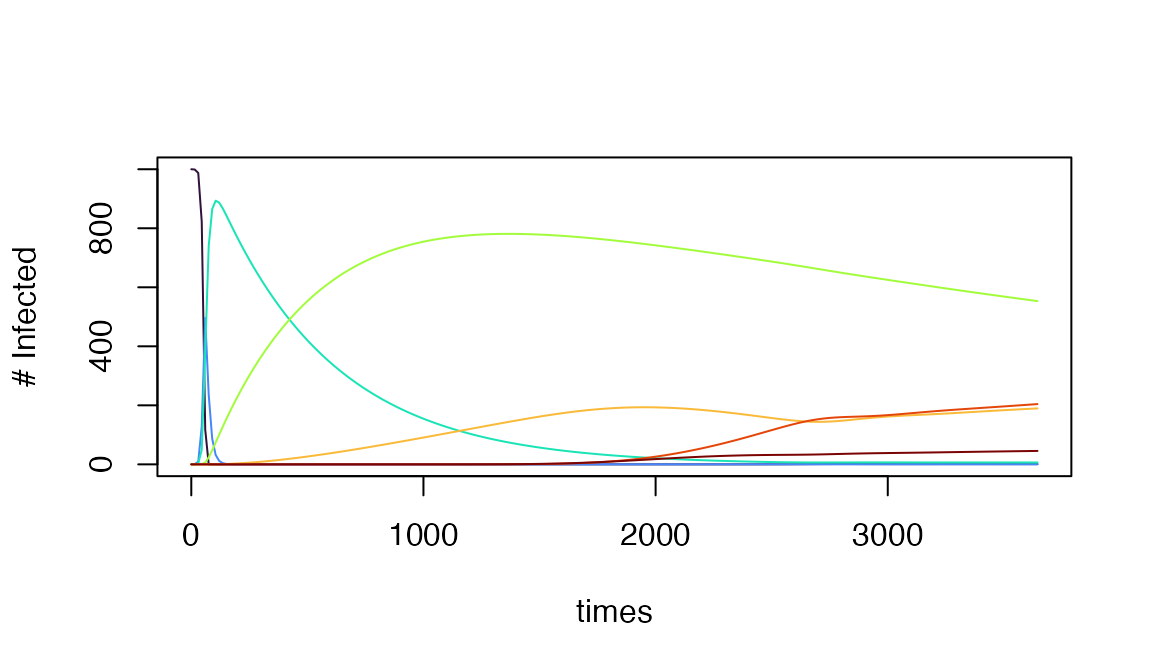
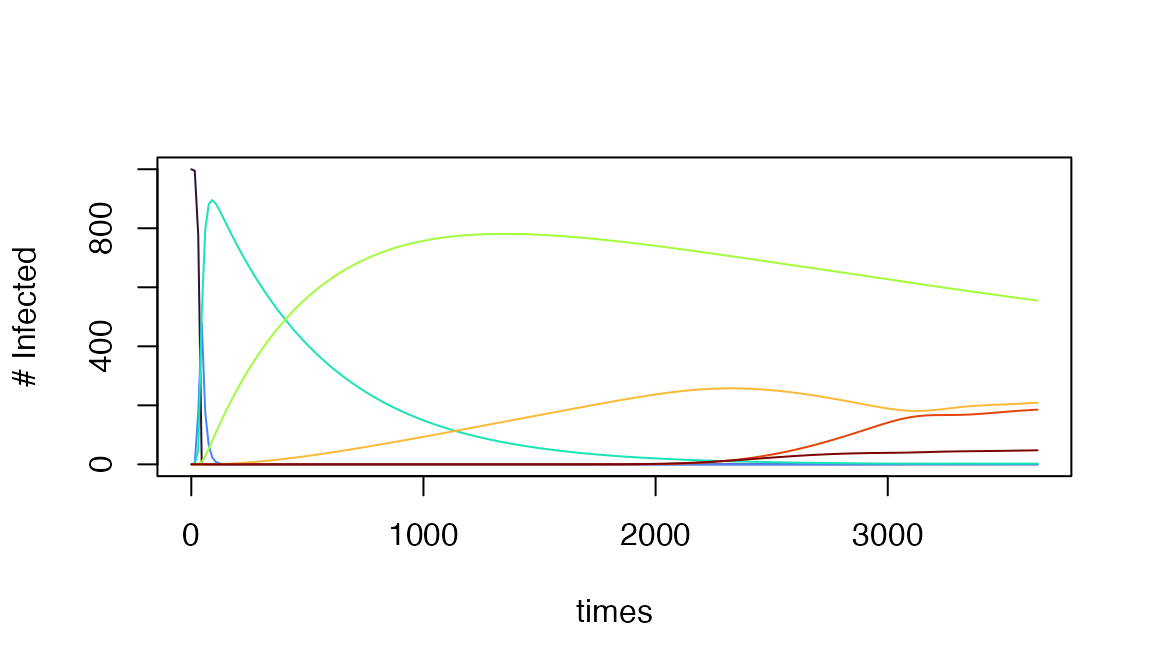
updated documentation

diff --git a/docs/articles/L-How_To_Add_Model.html b/docs/articles/L-How_To_Add_Model.html
@@ -126,8 +126,8 @@
   <div class="col-md-9 contents">
     <div class="page-header toc-ignore">
       <h1 data-toc-skip>Developing L Modules</h1>
-            <h3 data-toc-skip class="subtitle">Models for Aquatic
-Mosquito Ecology</h3>
+            <h3 data-toc-skip class="subtitle">Developing New Modules
+for Aquatic Mosquito Ecology</h3>
             
       
       <small class="dont-index">Source: <a href="https://github.com/dd-harp/ramp.xds/blob/HEAD/vignettes/L-How_To_Add_Model.Rmd" class="external-link"><code>vignettes/L-How_To_Add_Model.Rmd</code></a></small>
@@ -271,6 +271,73 @@ the derivative equations you just wrote.</p></li>
 </div>
 </div>
 <div class="section level2">
+<h2 id="bionomics">Bionomics<a class="anchor" aria-label="anchor" href="#bionomics"></a>
+</h2>
+<p>Two functions update bionomic parameter values at each time step,
+called in sequence before the dynamics are computed.</p>
+<div class="section level3">
+<h3 id="lbionomics">LBionomics<a class="anchor" aria-label="anchor" href="#lbionomics"></a>
+</h3>
+<p><code>LBionomics.newLname</code> computes the current bionomic
+parameter values by calling the forcing function for each parameter. It
+also resets all effect sizes to 1.</p>
+<ul>
+<li><p>Replace <code>p1</code>, <code>p2</code>, … with the names of the
+bionomic parameters in your model. Add a call to a forcing function for
+each one.</p></li>
+<li><p>For each parameter <code>p1</code>, add a matching effect size
+reset: <code>es_p1 &lt;- rep(1, nHabitats)</code>.</p></li>
+</ul>
+<div class="sourceCode" id="cb4"><pre class="downlit sourceCode r">
+<code class="sourceCode R"><span><span class="co">#' @title Mosquito bionomics for `newLname` (**L**)</span></span>
+<span><span class="co">#' @description Implements [LBionomics] for the newLname model</span></span>
+<span><span class="co">#' @inheritParams ramp.xds::LBionomics</span></span>
+<span><span class="co">#' @return an **`xds`** object</span></span>
+<span><span class="co">#' @export</span></span>
+<span><span class="va">LBionomics.newLname</span> <span class="op">&lt;-</span> <span class="kw">function</span><span class="op">(</span><span class="va">t</span>, <span class="va">y</span>, <span class="va">xds_obj</span>, <span class="va">s</span><span class="op">)</span> <span class="op">{</span></span>
+<span>  <span class="fu"><a href="https://rdrr.io/r/base/with.html" class="external-link">with</a></span><span class="op">(</span><span class="va">xds_obj</span><span class="op">$</span><span class="va">L_obj</span><span class="op">[[</span><span class="va">s</span><span class="op">]</span><span class="op">]</span>, <span class="op">{</span></span>
+<span></span>
+<span>    <span class="co"># Change this: call the forcing function for each bionomic parameter</span></span>
+<span>    <span class="va">xds_obj</span><span class="op">$</span><span class="va">L_obj</span><span class="op">[[</span><span class="va">s</span><span class="op">]</span><span class="op">]</span><span class="op">$</span><span class="va">p1_t</span> <span class="op">&lt;-</span> <span class="fu">F_p1</span><span class="op">(</span><span class="va">t</span>, <span class="va">xds_obj</span>, <span class="va">s</span><span class="op">)</span></span>
+<span>    <span class="va">xds_obj</span><span class="op">$</span><span class="va">L_obj</span><span class="op">[[</span><span class="va">s</span><span class="op">]</span><span class="op">]</span><span class="op">$</span><span class="va">p2_t</span> <span class="op">&lt;-</span> <span class="fu">F_p2</span><span class="op">(</span><span class="va">t</span>, <span class="va">xds_obj</span>, <span class="va">s</span><span class="op">)</span></span>
+<span></span>
+<span>    <span class="co"># Change this: reset one effect size for each bionomic parameter</span></span>
+<span>    <span class="va">xds_obj</span><span class="op">$</span><span class="va">L_obj</span><span class="op">[[</span><span class="va">s</span><span class="op">]</span><span class="op">]</span><span class="op">$</span><span class="va">es_p1</span> <span class="op">&lt;-</span> <span class="fu"><a href="https://rdrr.io/r/base/rep.html" class="external-link">rep</a></span><span class="op">(</span><span class="fl">1</span>, <span class="va">nHabitats</span><span class="op">)</span></span>
+<span>    <span class="va">xds_obj</span><span class="op">$</span><span class="va">L_obj</span><span class="op">[[</span><span class="va">s</span><span class="op">]</span><span class="op">]</span><span class="op">$</span><span class="va">es_p2</span> <span class="op">&lt;-</span> <span class="fu"><a href="https://rdrr.io/r/base/rep.html" class="external-link">rep</a></span><span class="op">(</span><span class="fl">1</span>, <span class="va">nHabitats</span><span class="op">)</span></span>
+<span></span>
+<span>    <span class="kw"><a href="https://rdrr.io/r/base/function.html" class="external-link">return</a></span><span class="op">(</span><span class="va">xds_obj</span><span class="op">)</span></span>
+<span>  <span class="op">}</span><span class="op">)</span><span class="op">}</span></span></code></pre></div>
+</div>
+<div class="section level3">
+<h3 id="leffectsizes">LEffectSizes<a class="anchor" aria-label="anchor" href="#leffectsizes"></a>
+</h3>
+<p><code>LEffectSizes.newLname</code> applies vector control effect
+sizes to the bionomic parameters set by <code>LBionomics</code>. For
+each parameter, the effective value is the baseline times the effect
+size.</p>
+<ul>
+<li>For each parameter <code>p1</code> with baseline <code>p1_t</code>
+and effect size <code>es_p1</code>, add a line:
+<code>xds_obj$L_obj[[s]]$p1 &lt;- p1_t * es_p1</code>.</li>
+</ul>
+<div class="sourceCode" id="cb5"><pre class="downlit sourceCode r">
+<code class="sourceCode R"><span><span class="co">#' @title Apply effect sizes for `newLname` (**L**)</span></span>
+<span><span class="co">#' @description Implements [LEffectSizes] for the newLname model</span></span>
+<span><span class="co">#' @inheritParams ramp.xds::LEffectSizes</span></span>
+<span><span class="co">#' @return an **`xds`** object</span></span>
+<span><span class="co">#' @export</span></span>
+<span><span class="va">LEffectSizes.newLname</span> <span class="op">&lt;-</span> <span class="kw">function</span><span class="op">(</span><span class="va">t</span>, <span class="va">y</span>, <span class="va">xds_obj</span>, <span class="va">s</span><span class="op">)</span> <span class="op">{</span></span>
+<span>  <span class="fu"><a href="https://rdrr.io/r/base/with.html" class="external-link">with</a></span><span class="op">(</span><span class="va">xds_obj</span><span class="op">$</span><span class="va">L_obj</span><span class="op">[[</span><span class="va">s</span><span class="op">]</span><span class="op">]</span>, <span class="op">{</span></span>
+<span></span>
+<span>    <span class="co"># Change this: multiply each baseline parameter by its effect size</span></span>
+<span>    <span class="va">xds_obj</span><span class="op">$</span><span class="va">L_obj</span><span class="op">[[</span><span class="va">s</span><span class="op">]</span><span class="op">]</span><span class="op">$</span><span class="va">p1</span> <span class="op">&lt;-</span> <span class="va">p1_t</span> <span class="op">*</span> <span class="va">es_p1</span></span>
+<span>    <span class="va">xds_obj</span><span class="op">$</span><span class="va">L_obj</span><span class="op">[[</span><span class="va">s</span><span class="op">]</span><span class="op">]</span><span class="op">$</span><span class="va">p2</span> <span class="op">&lt;-</span> <span class="va">p2_t</span> <span class="op">*</span> <span class="va">es_p2</span></span>
+<span></span>
+<span>    <span class="kw"><a href="https://rdrr.io/r/base/function.html" class="external-link">return</a></span><span class="op">(</span><span class="va">xds_obj</span><span class="op">)</span></span>
+<span>  <span class="op">}</span><span class="op">)</span><span class="op">}</span></span></code></pre></div>
+</div>
+</div>
+<div class="section level2">
 <h2 id="l-lodel-object">L Lodel Object<a class="anchor" aria-label="anchor" href="#l-lodel-object"></a>
 </h2>
 <div class="section level3">
@@ -290,7 +357,7 @@ that define state transitions in <code>dLdt</code> or
 <code>Update_Lt</code> and set <code>mda=TRUE</code> and
 <code>msat=TRUE</code> in the skill set.</p></li>
 </ul>
-<div class="sourceCode" id="cb4"><pre class="downlit sourceCode r">
+<div class="sourceCode" id="cb6"><pre class="downlit sourceCode r">
 <code class="sourceCode R"><span><span class="co">#' @title Lake parameters for newLname human model, with defaults</span></span>
 <span><span class="co">#' @param nPatches is the number of population strata</span></span>
 <span><span class="co">#' @param options a [list] that could overwrite defaults</span></span>
@@ -321,7 +388,7 @@ that define state transitions in <code>dLdt</code> or
 </h3>
 <p>If you did a global search and replace on <code>newLname,</code> this
 function will not need to be modified</p>
-<div class="sourceCode" id="cb5"><pre class="downlit sourceCode r">
+<div class="sourceCode" id="cb7"><pre class="downlit sourceCode r">
 <code class="sourceCode R"><span><span class="co">#' @title Setup L_obj.newLname</span></span>
 <span><span class="co">#' @description Implements [setup_L_obj] for the newLname model</span></span>
 <span><span class="co">#' @inheritParams ramp.xds::setup_L_obj</span></span>
@@ -349,7 +416,7 @@ variable name, <code>Y</code> in <code>Y_ix</code> with the second, and
 add lines for each variable by copying and pasting and editing the pair
 of lines. Be sure the replacement gets applied to all four
 instances.</p>
-<div class="sourceCode" id="cb6"><pre class="downlit sourceCode r">
+<div class="sourceCode" id="cb8"><pre class="downlit sourceCode r">
 <code class="sourceCode R"><span><span class="co">#' @title Add indices for human population to parameter list</span></span>
 <span><span class="co">#' @description Implements [setup_L_ix] for the newLname model.</span></span>
 <span><span class="co">#' @inheritParams ramp.xds::setup_L_ix</span></span>
@@ -387,7 +454,7 @@ with the second variable name.</p></li>
 you use it or if you want to have it available, compute it and add it to
 the returned list.</p></li>
 </ul>
-<div class="sourceCode" id="cb7"><pre class="downlit sourceCode r">
+<div class="sourceCode" id="cb9"><pre class="downlit sourceCode r">
 <code class="sourceCode R"><span><span class="co">#' @title Return the variables as a list</span></span>
 <span><span class="co">#' @description This method dispatches on the type of `xds_obj$L_obj`</span></span>
 <span><span class="co">#' @inheritParams ramp.xds::get_L_vars</span></span>
@@ -419,7 +486,7 @@ with the second variable name.</p></li>
 you use it or if you want to have it available, compute it and add it to
 the returned list.</p></li>
 </ul>
-<div class="sourceCode" id="cb8"><pre class="downlit sourceCode r">
+<div class="sourceCode" id="cb10"><pre class="downlit sourceCode r">
 <code class="sourceCode R"><span><span class="co">#' @title parse the output of deSolve and return variables for the newLname model</span></span>
 <span><span class="co">#' @description Implements [parse_L_orbits] for the newLname model</span></span>
 <span><span class="co">#' @inheritParams ramp.xds::parse_L_orbits</span></span>
@@ -444,7 +511,7 @@ the returned list.</p></li>
 </h3>
 <p>If you did the global search and replace, you won’t need to change
 this function.</p>
-<div class="sourceCode" id="cb9"><pre class="downlit sourceCode r">
+<div class="sourceCode" id="cb11"><pre class="downlit sourceCode r">
 <code class="sourceCode R"><span><span class="co">#' @title Setup initial values for *newLname*</span></span>
 <span><span class="co">#' </span></span>
 <span><span class="co">#' @inheritParams ramp.xds::setup_L_inits</span></span>
@@ -460,7 +527,7 @@ this function.</p>
 <div class="section level3">
 <h3 id="make_l_inits">make_L_inits<a class="anchor" aria-label="anchor" href="#make_l_inits"></a>
 </h3>
-<div class="sourceCode" id="cb10"><pre class="downlit sourceCode r">
+<div class="sourceCode" id="cb12"><pre class="downlit sourceCode r">
 <code class="sourceCode R"><span><span class="co">#' @title Lake initial values for the Xname human model, with defaults</span></span>
 <span><span class="co">#' @param nPatches the number of strata in the model</span></span>
 <span><span class="co">#' @param options a [list] to overwrite defaults</span></span>
@@ -479,7 +546,7 @@ this function.</p>
 <div class="section level3">
 <h3 id="change_l_inits">change_L_inits<a class="anchor" aria-label="anchor" href="#change_l_inits"></a>
 </h3>
-<div class="sourceCode" id="cb11"><pre class="downlit sourceCode r">
+<div class="sourceCode" id="cb13"><pre class="downlit sourceCode r">
 <code class="sourceCode R"><span><span class="co">#' @title Return the parameters as a list</span></span>
 <span><span class="co">#' </span></span>
 <span><span class="co">#' @inheritParams ramp.xds::change_L_inits </span></span>
@@ -505,7 +572,7 @@ this function.</p>
 <p>In the following, replace … with a formula to compute the effective
 density of infectious humans: it is population density by strata
 weighted by the probability of transmitting.</p>
-<div class="sourceCode" id="cb12"><pre class="downlit sourceCode r">
+<div class="sourceCode" id="cb14"><pre class="downlit sourceCode r">
 <code class="sourceCode R"><span><span class="co">#' @title Size of effective infectious human population</span></span>
 <span><span class="co">#' @description Implements [F_emerge] for the SIS model.</span></span>
 <span><span class="co">#' @inheritParams ramp.xds::F_emerge</span></span>
@@ -524,7 +591,7 @@ weighted by the probability of transmitting.</p>
 <p>In the following, replace … with a formula to compute the effective
 density of infectious humans: it is population density by strata
 weighted by the probability of transmitting.</p>
-<div class="sourceCode" id="cb13"><pre class="downlit sourceCode r">
+<div class="sourceCode" id="cb15"><pre class="downlit sourceCode r">
 <code class="sourceCode R"><span><span class="co">#' @title Size of effective infectious human population</span></span>
 <span><span class="co">#' @description Implements [F_L] for the SIS model.</span></span>
 <span><span class="co">#' @inheritParams ramp.xds::F_L</span></span>
@@ -547,7 +614,7 @@ that parse the outputs and compute some standard metrics.</p>
 <h3 id="f_capacity">F_capacity<a class="anchor" aria-label="anchor" href="#f_capacity"></a>
 </h3>
 <p>Replace <code>L/H</code> with the formula to compute prevalence.</p>
-<div class="sourceCode" id="cb14"><pre class="downlit sourceCode r">
+<div class="sourceCode" id="cb16"><pre class="downlit sourceCode r">
 <code class="sourceCode R"><span><span class="co">#' @title Compute the true prevalence of infection / parasite rate</span></span>
 <span><span class="co">#' @description Implements F_pr for the newLname model.</span></span>
 <span><span class="co">#' @inheritParams F_pr</span></span>
@@ -578,7 +645,7 @@ that parse the outputs and compute some standard metrics.</p>
 <div class="section level4">
 <h4 id="xds_lines_x_sis">xds_lines_X_SIS<a class="anchor" aria-label="anchor" href="#xds_lines_x_sis"></a>
 </h4>
-<div class="sourceCode" id="cb15"><pre class="downlit sourceCode r">
+<div class="sourceCode" id="cb17"><pre class="downlit sourceCode r">
 <code class="sourceCode R"><span><span class="co">#' Add lines for the density of infected individuals for the SIS model</span></span>
 <span><span class="co">#'</span></span>
 <span><span class="co">#' @param L a list with the outputs of parse_deout_X_SIS</span></span>
@@ -607,7 +674,7 @@ that parse the outputs and compute some standard metrics.</p>
 <div class="section level4">
 <h4 id="xds_lines_x_newlname">xds_lines_X_newLname<a class="anchor" aria-label="anchor" href="#xds_lines_x_newlname"></a>
 </h4>
-<div class="sourceCode" id="cb16"><pre class="downlit sourceCode r">
+<div class="sourceCode" id="cb18"><pre class="downlit sourceCode r">
 <code class="sourceCode R"><span><span class="co">#' Add lines for the density of infected individuals for the newLname model</span></span>
 <span><span class="co">#'</span></span>
 <span><span class="co">#' @param L a list with the outputs of parse_deout_X_newLname</span></span>
@@ -644,7 +711,7 @@ Instead, it is called by the <code>S3</code> function
 <div class="section level4">
 <h4 id="generic">Generic<a class="anchor" aria-label="anchor" href="#generic"></a>
 </h4>
-<div class="sourceCode" id="cb17"><pre class="downlit sourceCode r">
+<div class="sourceCode" id="cb19"><pre class="downlit sourceCode r">
 <code class="sourceCode R"><span><span class="co">#' Basic plotting for epidemiological models</span></span>
 <span><span class="co">#'</span></span>
 <span><span class="co">#' @param xds_obj a list that defines an `ramp.xds` model (*e.g.*,  generated by `xde_setup()`)</span></span>
@@ -662,7 +729,7 @@ Instead, it is called by the <code>S3</code> function
 <div class="section level4">
 <h4 id="xds_plot_x-sis">xds_plot_X.SIS<a class="anchor" aria-label="anchor" href="#xds_plot_x-sis"></a>
 </h4>
-<div class="sourceCode" id="cb18"><pre class="downlit sourceCode r">
+<div class="sourceCode" id="cb20"><pre class="downlit sourceCode r">
 <code class="sourceCode R"><span><span class="co">#' Plot the density of infected individuals for the newLname model</span></span>
 <span><span class="co">#'</span></span>
 <span><span class="co">#' @inheritParams ramp.xds::xds_plot_X</span></span>
@@ -682,7 +749,7 @@ Instead, it is called by the <code>S3</code> function
 <div class="section level4">
 <h4 id="xds_plot_x-newlname">xds_plot_X.newLname<a class="anchor" aria-label="anchor" href="#xds_plot_x-newlname"></a>
 </h4>
-<div class="sourceCode" id="cb19"><pre class="downlit sourceCode r">
+<div class="sourceCode" id="cb21"><pre class="downlit sourceCode r">
 <code class="sourceCode R"><span><span class="co">#' Plot the density of infected individuals for the newLname model</span></span>
 <span><span class="co">#'</span></span>
 <span><span class="co">#' @inheritParams ramp.xds::xds_plot_X</span></span>

diff --git a/docs/reference/index.html b/docs/reference/index.html
@@ -101,26 +101,6 @@
     </div>
 
     <table class="ref-index"><colgroup><col class="alias"><col class="title"></colgroup><tbody><tr><th colspan="2">
-          <h2 id="adult-mosquito">Adult Mosquito <a href="#adult-mosquito" class="anchor" aria-hidden="true"></a></h2>
-          <p class="section-desc"></p><p>Modules for adult mosquito ecology and infection dynamics</p>
-        </th>
-      </tr></tbody><tbody><tr><td>
-          <p><code><a href="BQ.html">BQ</a></code> </p>
-        </td>
-        <td><p>The <code>BQ</code> module for the MY component</p></td>
-      </tr><tr><td>
-          <p><code><a href="BQm.html">BQm</a></code> </p>
-        </td>
-        <td><p>The <code>BQm</code> module for the MY component</p></td>
-      </tr><tr><td>
-          <p><code><a href="BRQS.html">BRQS</a></code> </p>
-        </td>
-        <td><p>The <code>BRQS</code> module for the MY component</p></td>
-      </tr><tr><td>
-          <p><code><a href="SEI.html">SEI</a></code> </p>
-        </td>
-        <td><p>The <code>SEI</code> module for the MY component</p></td>
-      </tr></tbody><tbody><tr><th colspan="2">
           <h2 id="malaria">Malaria <a href="#malaria" class="anchor" aria-hidden="true"></a></h2>
           <p class="section-desc"></p><p>Models for parasites infecting human / vertebrate hosts</p>
         </th>
@@ -168,6 +148,34 @@
           <p><code><a href="SEIRV.html">SEIRV</a></code> </p>
         </td>
         <td><p>The <code>SEIRV</code> module for the XH component</p></td>
+      </tr></tbody><tbody><tr><th colspan="2">
+          <h2 id="adult-mosquito">Adult Mosquito <a href="#adult-mosquito" class="anchor" aria-hidden="true"></a></h2>
+          <p class="section-desc"></p><p>Modules for adult mosquito ecology and infection dynamics</p>
+        </th>
+      </tr></tbody><tbody><tr><td>
+          <p><code><a href="BQ.html">BQ</a></code> </p>
+        </td>
+        <td><p>The <code>BQ</code> module for the MY component</p></td>
+      </tr><tr><td>
+          <p><code><a href="BQm.html">BQm</a></code> </p>
+        </td>
+        <td><p>The <code>BQm</code> module for the MY component</p></td>
+      </tr><tr><td>
+          <p><code><a href="BRQS.html">BRQS</a></code> </p>
+        </td>
+        <td><p>The <code>BRQS</code> module for the MY component</p></td>
+      </tr><tr><td>
+          <p><code><a href="SEI.html">SEI</a></code> </p>
+        </td>
+        <td><p>The <code>SEI</code> module for the MY component</p></td>
+      </tr></tbody><tbody><tr><th colspan="2">
+          <h2 id="aquatic-mosquito">Aquatic Mosquito <a href="#aquatic-mosquito" class="anchor" aria-hidden="true"></a></h2>
+          <p class="section-desc"></p><p>Modules for aquatic mosquito ecology</p>
+        </th>
+      </tr></tbody><tbody><tr><td>
+          <p><code><a href="stages.html">stages</a></code> </p>
+        </td>
+        <td><p>The <code>stages</code> module for the <strong>L</strong> component</p></td>
       </tr></tbody></table></div>
 
   <div class="col-md-3 hidden-xs hidden-sm" id="pkgdown-sidebar">

diff --git a/docs/articles/Malaria-Overview.html b/docs/articles/Malaria-Overview.html
@@ -128,7 +128,7 @@
       <h1 data-toc-skip>Models for Malaria Epidemiology</h1>
             <h3 data-toc-skip class="subtitle">An Overview</h3>
             
-            <h4 data-toc-skip class="date">March 25, 2026</h4>
+            <h4 data-toc-skip class="date">July 09, 2026</h4>
       
       <small class="dont-index">Source: <a href="https://github.com/dd-harp/ramp.xds/blob/HEAD/vignettes/Malaria-Overview.Rmd" class="external-link"><code>vignettes/Malaria-Overview.Rmd</code></a></small>
       <div class="hidden name"><code>Malaria-Overview.Rmd</code></div>

diff --git a/docs/articles/Compartmental-Models.html b/docs/articles/Compartmental-Models.html
@@ -127,7 +127,7 @@
     <div class="page-header toc-ignore">
       <h1 data-toc-skip>Compartmental Models</h1>
             
-            <h4 data-toc-skip class="date">March 25, 2026</h4>
+            <h4 data-toc-skip class="date">July 09, 2026</h4>
       
       <small class="dont-index">Source: <a href="https://github.com/dd-harp/ramp.xds/blob/HEAD/vignettes/Compartmental-Models.Rmd" class="external-link"><code>vignettes/Compartmental-Models.Rmd</code></a></small>
       <div class="hidden name"><code>Compartmental-Models.Rmd</code></div>

diff --git a/docs/articles/L-Overview.html b/docs/articles/L-Overview.html
@@ -128,7 +128,7 @@
       <h1 data-toc-skip>Mosquito Aquatic Ecology</h1>
             <h3 data-toc-skip class="subtitle">An Overview</h3>
             
-            <h4 data-toc-skip class="date">March 25, 2026</h4>
+            <h4 data-toc-skip class="date">July 09, 2026</h4>
       
       <small class="dont-index">Source: <a href="https://github.com/dd-harp/ramp.xds/blob/HEAD/vignettes/L-Overview.Rmd" class="external-link"><code>vignettes/L-Overview.Rmd</code></a></small>
       <div class="hidden name"><code>L-Overview.Rmd</code></div>

diff --git a/docs/articles/X-garki.html b/docs/articles/X-garki.html
@@ -127,7 +127,7 @@
     <div class="page-header toc-ignore">
       <h1 data-toc-skip>The Garki Model</h1>
             
-            <h4 data-toc-skip class="date">March 25, 2026</h4>
+            <h4 data-toc-skip class="date">July 09, 2026</h4>
       
       <small class="dont-index">Source: <a href="https://github.com/dd-harp/ramp.xds/blob/HEAD/vignettes/X-garki.Rmd" class="external-link"><code>vignettes/X-garki.Rmd</code></a></small>
       <div class="hidden name"><code>X-garki.Rmd</code></div>

diff --git a/docs/articles/index.html b/docs/articles/index.html
@@ -114,6 +114,8 @@
         <dd>
         </dd><dt><a href="L-Overview.html">Mosquito Aquatic Ecology</a></dt>
         <dd>
+        </dd><dt><a href="L-stages.html">Staged L</a></dt>
+        <dd>
         </dd><dt><a href="Malaria-Overview.html">Models for Malaria Epidemiology</a></dt>
         <dd>
         </dd><dt><a href="MY-BQ.html">The BQ Modules</a></dt>
